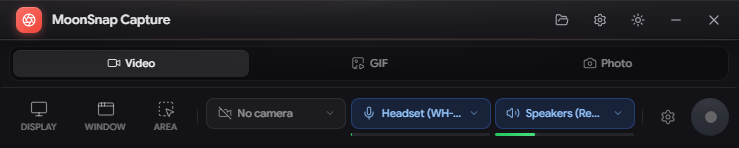
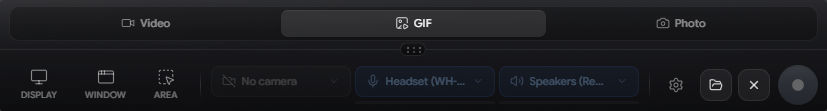
Align recording chooser window

diff --git a/apps/desktop/src/styles.css b/apps/desktop/src/styles.css
@@ -885,7 +885,7 @@ body.resizing * {
   align-items: center;
   gap: 4px;
   padding: 4px 10px;
-  font-size: 11px;
+  font-size: 14px;
   font-weight: 500;
   font-family: 'JetBrains Mono', monospace;
   letter-spacing: 0.02em;
@@ -3881,15 +3881,6 @@ body.floating-toolbar-window #root {
   transform: none;
 }
 
-/* Quick capture zap icon */
-.glass-capture-btn-zap {
-  position: absolute;
-  top: 4px;
-  right: 4px;
-  color: rgba(255, 255, 255, 0.9);
-  filter: drop-shadow(0 1px 1px rgba(0, 0, 0, 0.3));
-}
-
 /* Recording UI sections */
 .glass-recording-section {
   display: flex;
@@ -4606,7 +4597,7 @@ body.floating-toolbar-window #root {
   display: flex;
   align-items: flex-start;
   justify-content: center;
-  padding: 32px; /* Must match SHADOW_PADDING in CaptureToolbarWindow.tsx */
+  padding: 0;
   background: transparent;
   overflow: visible;
   pointer-events: none;
@@ -4713,10 +4704,12 @@ body.floating-toolbar-window #root {
 }
 
 .glass-toolbar--capture-floating {
+  --capture-toolbar-top-strip-height: 28px;
   width: max-content;
   gap: 0;
+  padding-top: var(--capture-toolbar-top-strip-height);
   border: 1px solid rgba(255, 255, 255, 0.12);
-  border-radius: 18px;
+  border-radius: 15px;
   background:
     radial-gradient(140% 120% at 0% 0%, rgba(255, 255, 255, 0.045) 0%, transparent 44%),
     linear-gradient(180deg, rgba(32, 32, 35, 0.92) 0%, rgba(20, 20, 23, 0.95) 52%, rgba(12, 12, 14, 0.98) 100%);
@@ -4735,13 +4728,36 @@ body.floating-toolbar-window #root {
   pointer-events: none;
 }
 
+.glass-toolbar--capture-floating::after {
+  content: 'MoonSnap';
+  position: absolute;
+  top: calc((var(--capture-toolbar-top-strip-height) / 2) + 4px);
+  left: 50%;
+  padding: 0 10px 1px;
+  transform: translate(-50%, -50%);
+  font-size: 14px;
+  line-height: 1;
+  font-weight: 650;
+  letter-spacing: 0.14em;
+  background: linear-gradient(180deg, rgba(196, 200, 208, 0.44) 0%, rgba(134, 139, 148, 0.3) 100%);
+  -webkit-background-clip: text;
+  background-clip: text;
+  color: transparent;
+  text-shadow:
+    0 1px 0 rgba(255, 255, 255, 0.025),
+    0 -1px 0 rgba(0, 0, 0, 0.42),
+    0 -2px 2px rgba(0, 0, 0, 0.08);
+  pointer-events: none;
+  user-select: none;
+}
+
 .glass-toolbar--capture-floating .glass-toolbar-row {
-  padding: 10px 12px;
+  padding: 9px 12px;
 }
 
 .glass-toolbar--capture-floating .glass-toolbar-row:first-child {
   position: relative;
-  padding-bottom: 10px;
+  padding-bottom: 8px;
 }
 
 .glass-toolbar--capture-floating .glass-toolbar-row:first-child::after {
@@ -4767,7 +4783,8 @@ body.floating-toolbar-window #root {
 }
 
 .glass-toolbar--capture-floating .glass-toolbar-row:last-child {
-  padding-top: 10px;
+  padding-top: 12px;
+  padding-bottom: 6px;
 }
 
 .glass-toolbar--capture-floating .glass-divider-vertical {
@@ -4971,6 +4988,14 @@ body.floating-toolbar-window #root {
     linear-gradient(180deg, rgba(255, 255, 255, 0.92) 0%, rgba(249, 250, 251, 0.95) 52%, rgba(243, 244, 246, 0.98) 100%);
   border-color: rgba(0, 0, 0, 0.1);
   box-shadow: inset 0 1px 0 rgba(255, 255, 255, 0.72), inset 0 -1px 0 rgba(148, 163, 184, 0.16); /* tauri-shadow-allow */
+}
+
+.light .glass-toolbar--capture-floating::after {
+  background: linear-gradient(180deg, rgba(100, 116, 139, 0.48) 0%, rgba(100, 116, 139, 0.3) 100%);
+  text-shadow:
+    0 1px 0 rgba(255, 255, 255, 0.76),
+    0 -1px 0 rgba(148, 163, 184, 0.18),
+    0 -2px 2px rgba(15, 23, 42, 0.02);
 }
 
 .light .glass-toolbar--capture-floating .glass-toolbar-row:first-child::after {

diff --git a/apps/desktop/src/windows/CaptureToolbarWindow.tsx b/apps/desktop/src/windows/CaptureToolbarWindow.tsx
@@ -121,6 +121,7 @@ const CaptureToolbarWindow: React.FC = () => {
   const recordingStartupInProgressRef = useRef(false);
   const chooserSelectionHandledRef = useRef(false);
   const chooserRestorePositionRef = useRef<RecordingModeChooserBackPayload | null>(null);
+  const chooserAnchorPositionRef = useRef<{ x: number; y: number } | null>(null);
 
   const pendingStartupContextRef = useRef<StartupToolbarContext | null>(null);
   const shouldAutoStartAreaSelectionRef = useRef(false);
@@ -325,6 +326,10 @@ const CaptureToolbarWindow: React.FC = () => {
             currentWindow.outerPosition(),
             currentWindow.outerSize(),
           ]);
+          chooserAnchorPositionRef.current = {
+            x: position.x,
+            y: position.y,
+          };
 
           setIsModeChooserVisible(true);
           await currentWindow.hide().catch(() => {});
@@ -383,6 +388,7 @@ const CaptureToolbarWindow: React.FC = () => {
       recordingStartupInProgressRef.current = false;
       chooserSelectionHandledRef.current = false;
       chooserRestorePositionRef.current = null;
+      chooserAnchorPositionRef.current = null;
       skipModePromptRef.current = false;
       setIsModeChooserVisible(false);
       setIsRecordingControlsPending(false);
@@ -593,6 +599,7 @@ const CaptureToolbarWindow: React.FC = () => {
       }
 
       chooserSelectionHandledRef.current = true;
+      chooserAnchorPositionRef.current = null;
       const store = useCaptureSettingsStore.getState();
       store.setAfterRecordingAction(event.payload.action);
       if (event.payload.remember) {
@@ -623,7 +630,8 @@ const CaptureToolbarWindow: React.FC = () => {
 
       chooserSelectionHandledRef.current = false;
       recordingStartupInProgressRef.current = false;
-      chooserRestorePositionRef.current = event.payload;
+      chooserRestorePositionRef.current = chooserAnchorPositionRef.current ?? event.payload;
+      chooserAnchorPositionRef.current = null;
       setIsModeChooserVisible(false);
       setIsRecordingControlsPending(false);
       setIsRecordingHudActive(false);
@@ -674,6 +682,7 @@ const CaptureToolbarWindow: React.FC = () => {
     if (mode === 'selection') {
       chooserSelectionHandledRef.current = false;
       recordingStartupInProgressRef.current = false;
+      chooserAnchorPositionRef.current = null;
       skipModePromptRef.current = false;
       setIsRecordingControlsPending(false);
       setIsRecordingHudActive(false);

diff --git a/apps/desktop/src/components/CaptureToolbar/CaptureToolbar.tsx b/apps/desktop/src/components/CaptureToolbar/CaptureToolbar.tsx
@@ -8,7 +8,7 @@
  */
 
 import React, { useCallback } from 'react';
-import { X, Square, Pause, Circle, Mic, Volume2, Zap, FolderOpen } from 'lucide-react';
+import { X, Square, Pause, Circle, Mic, Volume2, FolderOpen } from 'lucide-react';
 import type { CaptureType, RecordingFormat } from '../../types';
 import { ModeSelector } from './ModeSelector';
 import { SourceSelector, type CaptureSource } from './SourceSelector';
@@ -142,7 +142,7 @@ export const CaptureToolbar: React.FC<CaptureToolbarProps> = ({
   const isBusy = isRecording || isStarting || isProcessing; // Disable controls during capture
 
   // Get audio settings for level meters
-  const { settings, afterRecordingAction } = useCaptureSettingsStore();
+  const { settings } = useCaptureSettingsStore();
   const micDeviceIndex = recordingAudioConfig?.microphoneDeviceIndex ?? settings.video.microphoneDeviceIndex;
   const isMicEnabled = micDeviceIndex !== null;
   const isSystemAudioEnabled = recordingAudioConfig?.systemAudioEnabled ?? settings.video.captureSystemAudio;
@@ -447,12 +447,9 @@ export const CaptureToolbar: React.FC<CaptureToolbarProps> = ({
           type="button"
           onClick={onCapture}
           className="glass-capture-btn-hardware"
-          title={captureType === 'screenshot' ? 'Take screenshot' : (isVideoMode && afterRecordingAction === 'save' ? 'Start quick recording' : 'Start recording')}
+          title={captureType === 'screenshot' ? 'Take screenshot' : 'Start recording'}
           disabled={!selectionConfirmed}
         >
-          {isVideoMode && afterRecordingAction === 'save' && (
-            <Zap size={10} strokeWidth={2.5} className="glass-capture-btn-zap" />
-          )}
           <Circle size={14} fill="currentColor" strokeWidth={0} />
         </button>
       </div>

diff --git a/apps/desktop/src/hooks/useToolbarPositioning.ts b/apps/desktop/src/hooks/useToolbarPositioning.ts
@@ -75,11 +75,14 @@ export function useToolbarPositioning({
     const measuredHeight = containerRect.height;
 
     if (isStartupToolbar) {
-      // Startup size should be content-driven; constants are only lower bounds
-      // for the first paint while assets/fonts settle.
+      // Startup size should be content-driven once the toolbar has mounted.
+      // The constants remain as a fallback before refs are available.
       return {
         width: Math.max(measuredWidth, LAYOUT.CAPTURE_TOOLBAR_STARTUP_WIDTH),
-        height: Math.max(measuredHeight, LAYOUT.CAPTURE_TOOLBAR_STARTUP_HEIGHT),
+        height:
+          measuredHeight > 0
+            ? measuredHeight
+            : LAYOUT.CAPTURE_TOOLBAR_STARTUP_HEIGHT,
       };
     }
 

diff --git a/apps/desktop/src-tauri/src/commands/window/recording.rs b/apps/desktop/src-tauri/src/commands/window/recording.rs
@@ -123,6 +123,9 @@ const RECORDING_CONTROLS_INITIAL_WIDTH: u32 = 360;
 const RECORDING_CONTROLS_INITIAL_HEIGHT: u32 = 60;
 const RECORDING_MODE_CHOOSER_INITIAL_WIDTH: u32 = 430;
 const RECORDING_MODE_CHOOSER_INITIAL_HEIGHT: u32 = 180;
+const FLOATING_WINDOW_EDGE_MARGIN: i32 = 16;
+const RECORDING_MODE_CHOOSER_VERTICAL_GAP: i32 = 14;
+const RECORDING_MODE_CHOOSER_UPWARD_BIAS: i32 = 20;
 
 fn center_floating_window(
     x: i32,
@@ -136,6 +139,66 @@ fn center_floating_window(
         x + (width as i32 - floating_width as i32) / 2,
         y + (height as i32 - floating_height as i32) / 2,
     )
+}
+
+fn center_horizontally_over_anchor(x: i32, width: u32, floating_width: u32) -> i32 {
+    x + (width as i32 - floating_width as i32) / 2
+}
+
+fn clamp_floating_window_to_monitor(
+    app: &AppHandle,
+    anchor_x: i32,
+    anchor_y: i32,
+    anchor_width: u32,
+    anchor_height: u32,
+    window_x: i32,
+    window_y: i32,
+    floating_width: u32,
+    floating_height: u32,
+) -> (i32, i32) {
+    let Ok(monitors) = app.available_monitors() else {
+        return (window_x, window_y);
+    };
+
+    let anchor_center_x = anchor_x + anchor_width as i32 / 2;
+    let anchor_center_y = anchor_y + anchor_height as i32 / 2;
+
+    let Some(monitor) = monitors
+        .iter()
+        .find(|monitor| {
+            let pos = monitor.position();
+            let size = monitor.size();
+
+            anchor_center_x >= pos.x
+                && anchor_center_x < pos.x + size.width as i32
+                && anchor_center_y >= pos.y
+                && anchor_center_y < pos.y + size.height as i32
+        })
+        .or_else(|| monitors.first())
+    else {
+        return (window_x, window_y);
+    };
+
+    let pos = monitor.position();
+    let size = monitor.size();
+    let min_x = pos.x + FLOATING_WINDOW_EDGE_MARGIN;
+    let min_y = pos.y + FLOATING_WINDOW_EDGE_MARGIN;
+    let max_x = pos.x + size.width as i32 - floating_width as i32 - FLOATING_WINDOW_EDGE_MARGIN;
+    let max_y = pos.y + size.height as i32 - floating_height as i32 - FLOATING_WINDOW_EDGE_MARGIN;
+
+    let clamped_x = if max_x >= min_x {
+        window_x.clamp(min_x, max_x)
+    } else {
+        pos.x
+    };
+
+    let clamped_y = if max_y >= min_y {
+        window_y.clamp(min_y, max_y)
+    } else {
+        pos.y
+    };
+
+    (clamped_x, clamped_y)
 }
 
 /// Show the recording controls window used while the main toolbar is excluded from capture.
@@ -279,15 +342,34 @@ pub async fn show_recording_mode_chooser(
     height: u32,
     owner: Option<String>,
 ) -> Result<(), String> {
-    let (window_x, window_y) = center_floating_window(
+    let owner = owner.unwrap_or_else(|| "capture-toolbar".to_string());
+    let (preferred_x, preferred_y) = if owner == "capture-toolbar" {
+        (
+            center_horizontally_over_anchor(x, width, RECORDING_MODE_CHOOSER_INITIAL_WIDTH),
+            y - RECORDING_MODE_CHOOSER_INITIAL_HEIGHT as i32 - RECORDING_MODE_CHOOSER_VERTICAL_GAP,
+        )
+    } else {
+        let (centered_x, centered_y) = center_floating_window(
+            x,
+            y,
+            width,
+            height,
+            RECORDING_MODE_CHOOSER_INITIAL_WIDTH,
+            RECORDING_MODE_CHOOSER_INITIAL_HEIGHT,
+        );
+        (centered_x, centered_y - RECORDING_MODE_CHOOSER_UPWARD_BIAS)
+    };
+    let (window_x, window_y) = clamp_floating_window_to_monitor(
+        &app,
         x,
         y,
         width,
         height,
+        preferred_x,
+        preferred_y,
         RECORDING_MODE_CHOOSER_INITIAL_WIDTH,
         RECORDING_MODE_CHOOSER_INITIAL_HEIGHT,
     );
-    let owner = owner.unwrap_or_else(|| "capture-toolbar".to_string());
 
     if let Some(window) = app.get_webview_window(RECORDING_MODE_CHOOSER_LABEL) {
         set_physical_bounds(
